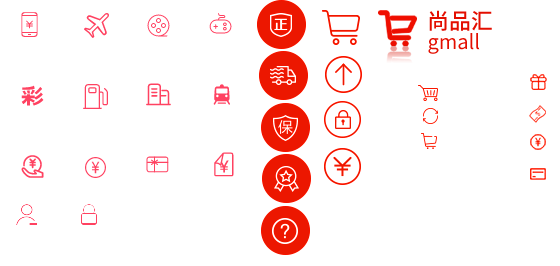
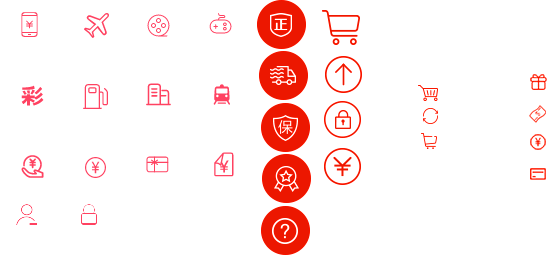
更新图片

Changed region(s): [[0.6679, 0.0301, 0.8804, 0.2406]]

diff --git a/src/components/Footer/index.vue b/src/components/Footer/index.vue
@@ -50,13 +50,12 @@
             <li>夺宝岛</li>
             <li>DIY装机</li>
             <li>延保服务</li>
-            <li>尚品汇E卡</li>
-            <li>尚品汇通信</li>
+            <li>E卡</li>
+            <li>通信</li>
           </ul>
         </div>
         <div class="footerItem">
           <h4>帮助中心</h4>
-          <img src="./images/wx_cz.jpg">
         </div>
       </div>
       <div class="copyright">
@@ -90,8 +89,6 @@
           </li>
           <li>关于我们</li>
         </ul>
-        <p>地址：北京市昌平区宏福科技园综合楼6层</p>
-        <p>京ICP备19006430号</p>
       </div>
     </div>
   </div>

diff --git a/src/components/Header/index.vue b/src/components/Header/index.vue
@@ -33,7 +33,7 @@
     <div class="bottom">
       <h1 class="logoArea">
         <router-link class="logo" to="/home">
-          <img src="./images/logo.png">
+          <img src="https://img10.360buyimg.com/img/jfs/t1/137458/22/20884/367319/61d7e10cE227befe9/7472fc868c0088dc.gif">
         </router-link>
       </h1>
       <div class="searchArea">
@@ -145,8 +145,7 @@ export default {
 
       .logo {
         img {
-          width: 175px;
-          margin: 25px 45px;
+          height: 110px;
         }
       }
     }

diff --git a/src/pages/Pay/index.vue b/src/pages/Pay/index.vue
@@ -14,7 +14,7 @@
       <div class="checkout-info">
         <h4>重要说明：</h4>
         <ol>
-          <li>尚品汇商城支付平台目前支持<span class="zfb">支付宝</span>支付方式。</li>
+          <li>商城支付平台目前支持<span class="zfb">支付宝</span>支付方式。</li>
           <li>其它支付渠道正在调试中，敬请期待。</li>
           <li>为了保证您的购物支付流程顺利完成，请保存以下支付宝信息。</li>
         </ol>

diff --git a/src/pages/Login/index.vue b/src/pages/Login/index.vue
@@ -56,13 +56,10 @@
         <li>联系客服</li>
         <li>商家入驻</li>
         <li>营销中心</li>
-        <li>手机尚品汇</li>
+        <li>手机</li>
         <li>销售联盟</li>
-        <li>尚品汇社区</li>
+        <li>社区</li>
       </ul>
-      <div class="address">地址：北京市昌平区宏福科技园综合楼6层</div>
-      <div class="beian">京ICP备19006430号
-      </div>
     </div>
   </div>
 </template>

diff --git a/src/store/user/index.js b/src/store/user/index.js
@@ -55,6 +55,7 @@ const actions = {
   async userLogout({ commit }) {
     let result = await reqLogout()
     if (result.code === 200) {
+      localStorage.removeItem('TOKEN')
       commit('CLEAR')
       return 'ok'
     } else {
@@ -76,7 +77,6 @@ const mutations = {
     // 清空仓库中相关用户信息
     state.token = ''
     state.userInfo = {}
-    localStorage.removeItem('TOKEN')
   }
 }
 const getters = {}

diff --git a/src/components/TypeNav/index.vue b/src/components/TypeNav/index.vue
@@ -37,7 +37,7 @@
       <nav class="nav">
         <a href="###">服装城</a>
         <a href="###">美妆馆</a>
-        <a href="###">尚品汇超市</a>
+        <a href="###">超市</a>
         <a href="###">全球购</a>
         <a href="###">闪购</a>
         <a href="###">团购</a>

diff --git a/src/pages/Home/ListContainer/index.vue b/src/pages/Home/ListContainer/index.vue
@@ -9,7 +9,7 @@
       <div class="right">
         <div class="news">
           <h4>
-            <em class="fl">尚品汇快报</em>
+            <em class="fl">快报</em>
             <span class="fr tip">更多 ></span>
           </h4>
           <div class="clearix"></div>
